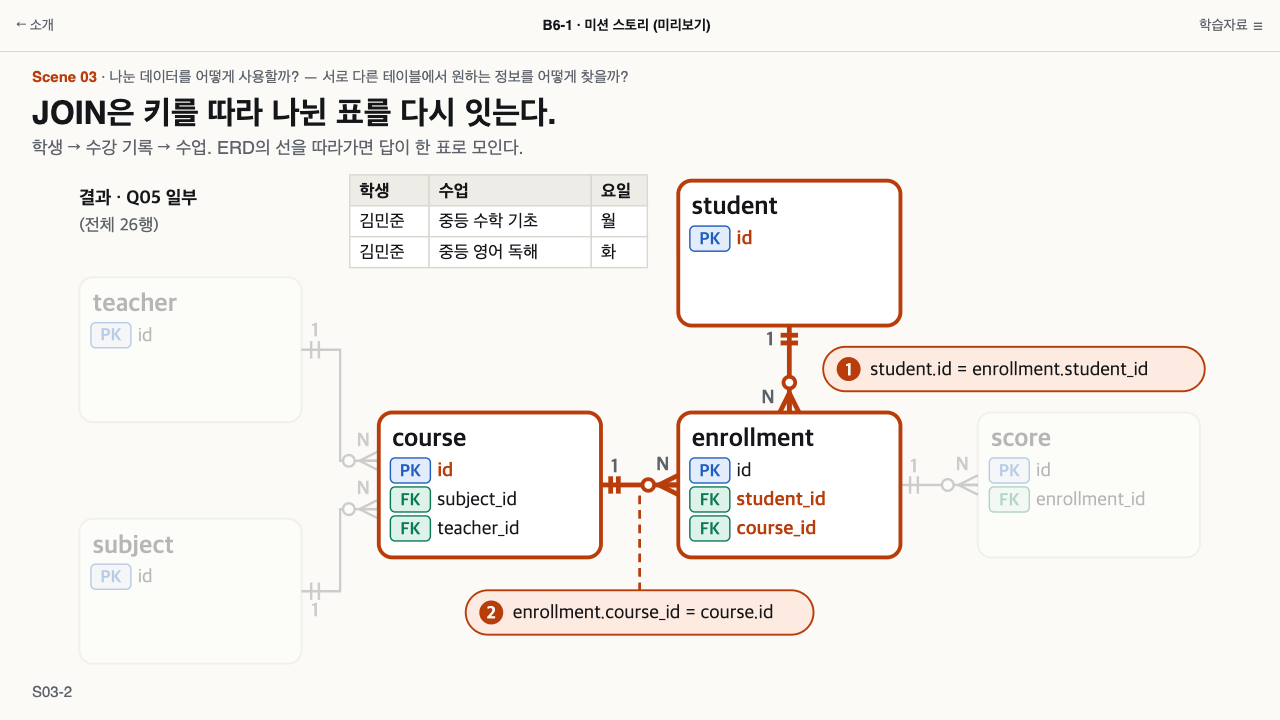
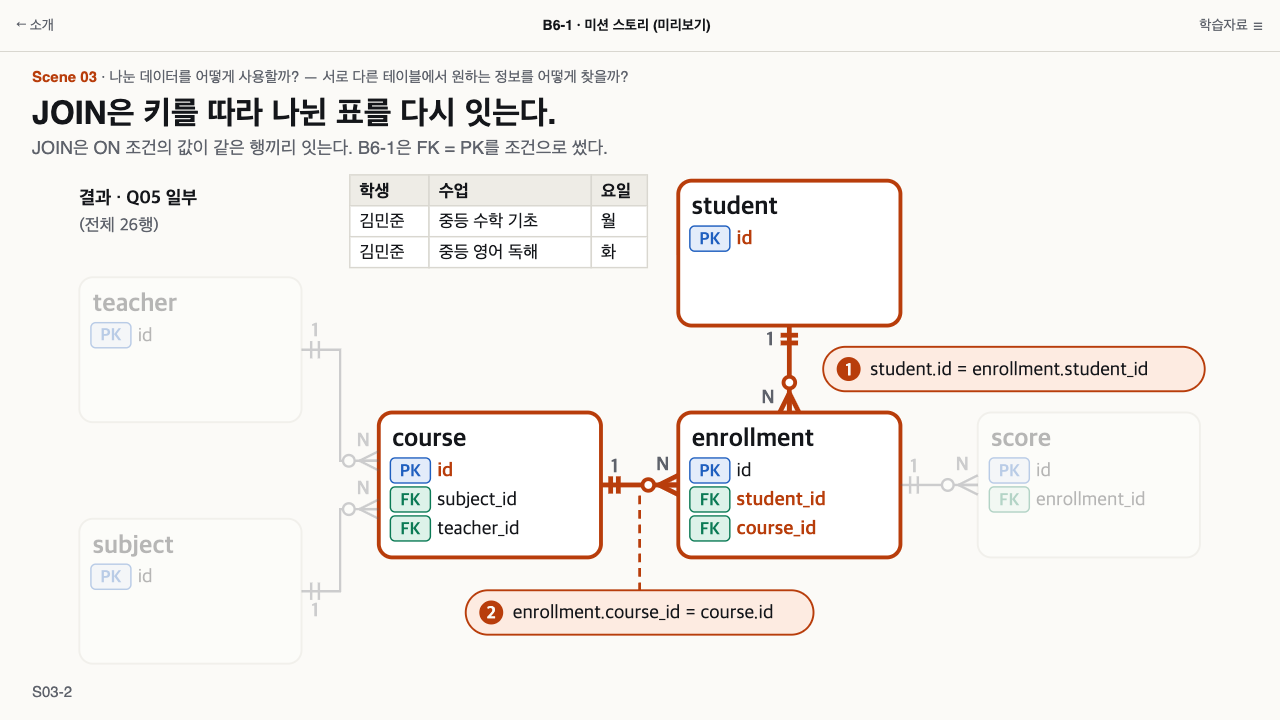
content(b6-1): refine story v0.2 visuals and wording
- Mobile S02-3/S03-3: dark token-based redraws of V03/V06 content
  (guide SVGs untouched, no color inversion)
- S01-3: B6-1 N:M junction vs one 1:N example; junction only for N:M
- S02-3/S03-2 captions separate B6-1's FK choice from general JOIN

Changed region(s): [[0.0312, 0.1833, 0.4688, 0.2139]]

diff --git a/content/mission-stories/main-m11/_tools/build.py b/content/mission-stories/main-m11/_tools/build.py
@@ -2,9 +2,9 @@
 
 그림 4종을 PC(desktop)·모바일(mobile)용으로 만든다. 결과는 ../assets/ 에 쓴다.
   erd-story        기준 ERD 하나. 상태 overview / read / join / return (Scene 01·03·04)
-  split-story      한 장의 표 → 나눈 표 → 키로 연결. 상태 one / split / keys (Scene 02)
-  join-compare     INNER JOIN 과 LEFT JOIN 결과 비교 (Scene 03, PC 전용. 모바일은 가이드 V06 재사용)
-  same-structure   주제가 달라도 같은 구조 (Scene 01)
+  split-story      한 장의 표 → 나눈 표 → 키로 연결. 상태 one / split / keys (Scene 02, 가이드 V03의 다크 재구성 포함)
+  join-compare     INNER JOIN 과 LEFT JOIN 결과 비교 (Scene 03, 가이드 V06의 다크 재구성)
+  same-structure   B6-1(N:M → 연결 표)과 1:N 예시 하나 (Scene 01)
 
 상태 전환: 루트 <svg data-state="..."> 값만 바꾼다. 파일 안 <style>이 상태별로 보이기·흐리기·강조를 정한다.
 <img>로 쓰면 기본 상태(첫 상태)만 보이므로, 렌더러는 SVG를 인라인으로 넣고 data-state를 바꾼다.
@@ -398,26 +398,47 @@ def split_desktop():
 
 
 def split_mobile():
-    states = ["one", "split"]  # 모바일의 keys 화면은 학습가이드 V03을 그대로 쓴다
-    f = Fig("split-story-mobile.svg", 360, 640, states, "한 장의 표를 나누기",
-            "학생·수업·강사를 한 장에 적으면 같은 값이 반복된다. 학생, 수업, 수강 기록 표로 나누면 정보는 한 번만 적는다.")
+    states = ["one", "split", "keys"]
+    f = Fig("split-story-mobile.svg", 360, 688, states, "한 장의 표를 나누고 키로 잇기",
+            "학생·수업·강사를 한 장에 적으면 같은 값이 반복된다. 학생, 수업, 수강 기록 표로 나누면 정보는 한 번만 적고(교육용 단순화), "
+            "수강 기록의 student_id와 course_id(FK)가 각 표의 id(PK)를 가리켜 연결한다.")
     sheet = [[r[0], r[2], r[3]] for r in SHEET]
     marks = {(0, 0), (1, 0), (0, 1), (2, 1), (0, 2), (2, 2)}
+    tabs = ["split", "keys"]
     f.text(20, 28, "한 장에 모두 적은 표", 18, cls="muted", bold=True, show=["one"])
     table(f, 20, 40, [("학생", 72), ("수업", 156), ("강사", 92)], sheet, 18, 46, show=["one"], marks=marks)
     chip(f, 20, 244, 320, 40, ["점선 칸 = 같은 값의 반복"], 18, show=["one"])
     chip(f, 20, 292, 320, 40, ["박서준이 바뀌면 → 2곳을 고쳐야"], 18, show=["one"])
-    f.text(20, 28, "학생 student", 18, cls="muted", bold=True, show=["split"])
+    f.text(20, 28, "학생 student", 18, cls="muted", bold=True, show=tabs)
     table(f, 20, 38, [("id", 78), ("이름", 96), ("학교", 96)], [["1", "김민준", "한빛중"], ["2", "이서연", "한빛중"]],
-          18, 44, show=["split"], pk=[0])
-    f.text(20, 206, "수업 course", 18, cls="muted", bold=True, show=["split"])
+          18, 44, show=tabs, pk=[0])
+    f.text(20, 206, "수업 course", 18, cls="muted", bold=True, show=tabs)
     table(f, 20, 216, [("id", 78), ("수업", 150), ("강사", 92)], [["1", "중등 수학 기초", "박서준"], ["2", "중등 영어 독해", "김하늘"]],
-          18, 44, show=["split"], pk=[0])
-    f.text(20, 384, "수강 기록", 18, cls="muted", bold=True, show=["split"])
+          18, 44, show=tabs, pk=[0])
+    f.text(20, 384, "수강 기록", 18, cls="muted", bold=True, show=tabs)
     table(f, 20, 394, [("student_id", 164), ("course_id", 156)],
-          [["1", "1"], ["1", "2"], ["2", "1"]], 18, 44, show=["split"], fk=[0, 1])
+          [["1", "1"], ["1", "2"], ["2", "1"]], 18, 44, show=tabs, fk=[0, 1])
     chip(f, 20, 584, 320, 46, ["단순화 · 점수·강사는 B6-1에서 별도 표"], 17, show=["split"])
+    # keys: FK 칸 → PK 행 (V03과 같은 내용을 슬라이드 색으로)
+    keys = ["keys"]
+    f.rect(23, 85, 72, 38, "mark", rx=6, show=keys)
+    f.rect(23, 263, 72, 38, "mark", rx=6, show=keys)
+    f.rect(23, 441, 158, 38, "mark", rx=6, show=keys)
+    f.rect(187, 441, 150, 38, "mark", rx=6, show=keys)
+    pointer(f, [(20, 460), (9, 460), (9, 104), (20, 104)], keys)
+    pointer(f, [(340, 460), (351, 460), (351, 282), (340, 282)], keys)
+    num_circle(f, 162, 460, "1", 18, show=keys)
+    num_circle(f, 318, 460, "2", 18, show=keys)
+    chip(f, 20, 584, 320, 40, ["PK = 행마다 다른 고유 번호 (id)"], 17, show=keys)
+    chip(f, 20, 632, 320, 40, ["FK = 다른 표의 PK를 가리키는 번호"], 17, show=keys)
     f.write()
+
+
+def icon(f, cx, cy, ok):
+    """✓ / ✕ 를 글꼴이 아닌 도형으로 그린다. 옆에 항상 글자 설명을 둔다."""
+    mark = (f'<path d="M{cx - 7:g} {cy:g} L{cx - 2:g} {cy + 6:g} L{cx + 7:g} {cy - 6:g}" fill="none"' if ok
+            else f'<path d="M{cx - 6:g} {cy - 6:g} L{cx + 6:g} {cy + 6:g} M{cx + 6:g} {cy - 6:g} L{cx - 6:g} {cy + 6:g}"')
+    f.add(f'<g><circle cx="{cx:g}" cy="{cy:g}" r="13" class="{P}-num"/>{mark} stroke="{TOKENS["bg"]}" stroke-width="3"/></g>')
 
 
 # ---------- 3. INNER JOIN vs LEFT JOIN ----------
@@ -438,62 +459,99 @@ def join_compare():
     table(f, 386, 128, [("이름", 104), ("수업", 264)], [["배현우", "파이썬 코딩 입문"], ["홍지민", "고등 수학 심화"]], 20, 52)
     f.text(396, 314, "문태양", 20, cls="muted")
     f.add(f'<path d="M392 307 L466 307" class="{P}-strike"/>')
-    f.add(f'<g><circle cx="404" cy="356" r="13" class="{P}-num"/><path d="M398 350 L410 362 M410 350 L398 362" '
-          f'stroke="{TOKENS["bg"]}" stroke-width="3"/></g>')
+    icon(f, 404, 356, False)
     f.text(426, 363, "짝이 없어 결과에서 사라짐", 20, bold=True)
     f.rect(800, 72, 380, 330, "box", rx=14)
     num_circle(f, 828, 101, "2", 20)
     f.text(850, 108, "LEFT JOIN → 3행", 21, bold=True)
     table(f, 816, 128, [("이름", 104), ("수업", 244)],
           [["배현우", "파이썬 코딩 입문"], ["홍지민", "고등 수학 심화"], ["문태양", "NULL"]], 20, 52, marks={(2, 1)})
-    f.add(f'<g><circle cx="830" cy="366" r="13" class="{P}-num"/><path d="M823 366 L828 372 L837 360" fill="none" '
-          f'stroke="{TOKENS["bg"]}" stroke-width="3"/></g>')
+    icon(f, 830, 366, True)
     f.text(852, 373, "왼쪽 표의 행은 모두 남는다", 20, bold=True)
     f.text(20, 446, "학생 15명 전체로 연결하면  INNER JOIN 26행 · LEFT JOIN 27행  (수강 0건인 문태양 1행 차이)", 20, cls="muted")
     f.write()
 
 
+def join_compare_mobile():
+    f = Fig("join-compare-mobile.svg", 360, 1034, ["compare"], "INNER JOIN 과 LEFT JOIN 의 차이", (
+        "student 13~15번을 enrollment와 연결하면, 수강 기록이 없는 15번 문태양은 INNER JOIN 결과에서 사라지고 "
+        "LEFT JOIN 결과에는 수업 칸이 NULL인 채로 남는다. 전체 학생으로는 INNER 26행, LEFT 27행이다."))
+    chip(f, 16, 8, 328, 64, ["연결 기준 ON", "student.id = enrollment.student_id"], 18)
+    chip(f, 16, 82, 180, 38, ["B6-1 실제 결과"], 17, cls="real")
+    f.text(16, 150, "왼쪽 표 student 13~15번", 18, bold=True)
+    table(f, 16, 162, [("id", 56), ("이름", 96), ("수강", 100)],
+          [["13", "배현우", "1건"], ["14", "홍지민", "1건"], ["15", "문태양", "0건"]], 18, 44, marks={(2, 2)})
+    for top, n, title, rows, ok, note in (
+            (354, "1", "INNER JOIN → 2행", [["배현우", "파이썬 코딩 입문"], ["홍지민", "고등 수학 심화"]], False, "짝이 없어 결과에서 사라짐"),
+            (662, "2", "LEFT JOIN → 3행", [["배현우", "파이썬 코딩 입문"], ["홍지민", "고등 수학 심화"], ["문태양", "NULL"]], True, "왼쪽 표의 행은 모두 남는다")):
+        h = 300 if ok else 292
+        f.rect(16, top, 328, h, "box", rx=14)
+        num_circle(f, 42, top + 28, n, 18)
+        f.text(62, top + 35, title, 19, bold=True)
+        table(f, 28, top + 52, [("이름", 90), ("수업", 214)], rows, 18, 44, marks={(2, 1)} if ok else ())
+        y = top + 52 + 44 * (len(rows) + 1)
+        if not ok:
+            f.text(36, y + 32, "문태양", 18, cls="muted")
+            f.add(f'<path d="M32 {y + 26:g} L98 {y + 26:g}" class="{P}-strike"/>')
+            y += 44
+        icon(f, 44, y + 28, ok)
+        f.text(66, y + 34, note, 18, bold=True)
+    f.text(16, 994, "학생 15명 전체로 연결하면", 18, cls="muted")
+    f.text(16, 1020, "INNER 26행 · LEFT 27행 (문태양 1행 차이)", 18, cls="muted")
+    f.write()
+
+
 # ---------- 4. 주제가 달라도 같은 구조 ----------
 
-EXAMPLES = [  # (제목 1줄, 제목 2줄, 부모 A, 부모 B, 연결 표, 실제 사례 여부)
-    ("실제 사례", "B6-1 공부방", "학생", "수업", "수강", True),
-    ("예시", "도서관", "회원", "도서", "대출", False),
-    ("예시", "쇼핑몰", "고객", "상품", "주문", False),
-    ("예시", "숙소 예약", "고객", "객실", "예약", False),
+EXAMPLES = [  # (제목 1줄, 제목 2줄, 부모 표들, 자식 표, 실제 사례 여부, 아래 설명)
+    ("실제 사례", "B6-1 공부방", ["학생", "수업"], "수강", True, ("다대다(N:M) → 연결 표", "N:M → 연결 표")),
+    ("예시", "블로그", ["회원"], "게시글", False, ("일대다(1:N) → 바로 연결", "1:N → 바로 연결")),
 ]
 
 
 def mini_erd(f, x, y, w, ex, desktop):
-    t1, t2, a, b, c, real = ex
+    t1, t2, parents, child, real, caption = ex
     if desktop:
-        f.rect(x, y, w, 270, "box", rx=14)
+        h, pw, ph, py, cy, size = 280, 110, 52, y + 76, y + 190, 21
+        f.rect(x, y, w, h, "box", rx=14)
         chip(f, x + 14, y + 14, w - 28, 40, [f"{t1} · {t2}"], 19, cls="real" if real else "tag")
-        pw, ph, py, cy, size = 104, 52, y + 70, y + 206, 21
-        ax, bx, cx, cw = x + 20, x + w - 124, x + 40, w - 80
+        f.text(x + w / 2, y + 268, caption[0], 19, cls="muted", anchor="middle", bold=True)
+        pad = 40
     else:
-        f.rect(x, y, w, 232, "box", rx=12)
+        h, pw, ph, py, cy, size = 262, 64, 44, y + 76, y + 184, 18
+        f.rect(x, y, w, h, "box", rx=12)
         chip(f, x + 8, y + 8, w - 16, 54, [t1, t2], 16, cls="real" if real else "tag")
-        pw, ph, py, cy, size = 64, 44, y + 70, y + 180, 18
-        ax, bx, cx, cw = x + 12, x + w - 76, x + 20, w - 40
-    for bx_, name in ((ax, a), (bx, b)):
-        f.rect(bx_, py, pw, ph, "box", rx=10)
-        f.text(bx_ + pw / 2, py + ph / 2 + size * 0.36, name, size, anchor="middle", bold=True)
-        mid = bx_ + pw / 2
-        relation(f, [(mid, py + ph), (mid, cy)], size - 1, (-1, -1) if bx_ == bx else (1, 1))  # 1·N 글자는 바깥쪽
-    f.rect(cx, cy, cw, ph, "box", rx=10)
-    f.text(cx + cw / 2, cy + ph / 2 + size * 0.36, c, size, anchor="middle", bold=True)
+        f.text(x + w / 2, y + 250, caption[1], 16, cls="muted", anchor="middle", bold=True)
+        pad = 12
+    xs = [x + pad, x + w - pad - pw] if len(parents) == 2 else [x + (w - pw) / 2]
+    cw = (w - 2 * pad - 20) if len(parents) == 2 else pw
+    for i, (px, name) in enumerate(zip(xs, parents)):
+        f.rect(px, py, pw, ph, "box", rx=10)
+        f.text(px + pw / 2, py + ph / 2 + size * 0.36, name, size, anchor="middle", bold=True)
+        mid = px + pw / 2
+        relation(f, [(mid, py + ph), (mid, cy)], size - 1, (1, 1) if i == 0 and len(parents) == 2 else (-1, -1))  # 1·N 글자는 바깥쪽
+    f.rect(x + (w - cw) / 2, cy, cw, ph, "box", rx=10)
+    f.text(x + w / 2, cy + ph / 2 + size * 0.36, child, size, anchor="middle", bold=True)
 
 
 def same_structure():
-    f = Fig("same-structure-desktop.svg", 1200, 290, ["all"], "주제가 달라도 같은 구조",
-            "B6-1 공부방의 학생·수업·수강처럼, 도서관의 회원·도서·대출, 쇼핑몰의 고객·상품·주문, 숙소의 고객·객실·예약도 "
-            "두 표를 가운데 연결 표가 1대 N 관계로 잇는 같은 구조를 가진다. B6-1 외의 세 가지는 교육용 예시다.")
-    for i, ex in enumerate(EXAMPLES):
-        mini_erd(f, 10 + i * 297, 10, 287, ex, True)
+    f = Fig("same-structure-desktop.svg", 1200, 300, ["all"], "주제가 달라도 같은 구조",
+            "B6-1 공부방은 학생과 수업의 다대다 관계를 연결 표 수강으로 풀었다. 블로그 예시처럼 일대다 관계는 연결 표 없이 "
+            "회원과 게시글을 바로 잇는다. 공통점은 표로 나누고 선으로 잇는 것이며, 연결 표는 다대다일 때만 쓴다.")
+    mini_erd(f, 10, 10, 380, EXAMPLES[0], True)
+    mini_erd(f, 410, 10, 380, EXAMPLES[1], True)
+    f.rect(810, 10, 380, 280, "box", rx=14)
+    f.text(836, 62, "공통점", 21, cls="acc", bold=True)
+    f.text(836, 100, "표로 나누고", 25, bold=True)
+    f.text(836, 136, "선으로 잇는다", 25, bold=True)
+    f.add(f'<path d="M836 172 L1164 172" class="{P}-rel"/>')
+    f.text(836, 214, "연결 표는", 22)
+    f.text(836, 250, "다대다(N:M)일 때만 쓴다", 22, bold=True)
     f.write()
-    m = Fig("same-structure-mobile.svg", 360, 488, ["all"], "주제가 달라도 같은 구조", f.label)
-    for i, ex in enumerate(EXAMPLES):
-        mini_erd(m, 10 + (i % 2) * 174, 8 + (i // 2) * 242, 166, ex, False)
+    m = Fig("same-structure-mobile.svg", 360, 392, ["all"], "주제가 달라도 같은 구조", f.label)
+    mini_erd(m, 10, 8, 166, EXAMPLES[0], False)
+    mini_erd(m, 184, 8, 166, EXAMPLES[1], False)
+    chip(m, 10, 282, 340, 100, ["공통점: 표로 나누고 선으로 잇는다", "연결 표는 N:M일 때만 쓴다"], 17)
     m.write()
 
 
@@ -504,5 +562,6 @@ if __name__ == "__main__":
     split_desktop()
     split_mobile()
     join_compare()
+    join_compare_mobile()
     same_structure()
     print("wrote", sorted(n for n in os.listdir(OUT) if n.endswith(".svg")))

diff --git a/content/mission-stories/main-m11/review.md b/content/mission-stories/main-m11/review.md
@@ -12,10 +12,10 @@
 | S01-3 | 주제는 달라도, 나누고 잇는 설계는 같다. | 같은 구조 |
 | S02-1 | 한 표에 모두 넣으면 같은 정보가 반복된다. | 나누고 잇기 `one` |
 | S02-2 | 정보는 주제별 표에 한 번만 적는다. | 나누고 잇기 `split` |
-| S02-3 | PK로 행을 구분하고, FK로 다른 표를 가리킨다. | 나누고 잇기 `keys` / V03 |
+| S02-3 | PK로 행을 구분하고, FK로 다른 표를 가리킨다. | 나누고 잇기 `keys` |
 | S03-1 | SQL로 원하는 결과를 요청하면, DBMS가 찾아서 표로 돌려준다. | HTML 카드 |
 | S03-2 | JOIN은 키를 따라 나뉜 표를 다시 잇는다. | 기준 ERD `join` + 결과표 |
-| S03-3 | INNER는 짝이 있는 행만, LEFT는 왼쪽 표를 모두 남긴다. | JOIN 비교 / V06 |
+| S03-3 | INNER는 짝이 있는 행만, LEFT는 왼쪽 표를 모두 남긴다. | JOIN 비교 |
 | S04-1 | SQL은 요청하는 언어, DBMS는 실행하고 지키는 프로그램이다. | HTML 카드 |
 | S04-2 | AI가 SQL을 써 줘도, 맞는 답인지는 구조로 판단한다. | HTML 카드 |
 | S04-3 | 데이터베이스는 정보를 나누어 정리하고, 관계로 연결해, 필요한 답을 찾아내는 구조다. | 기준 ERD `return` |
@@ -26,13 +26,12 @@
 
 | 구분 | 파일 | 수 |
 | --- | --- | --- |
-| **새로 만든 그림** | 기준 ERD · 나누고 잇기 · 같은 구조 (각 PC·모바일) + JOIN 비교 (PC) | 디자인 4종 · SVG 파일 7개 |
-| **그대로 재사용** | 학습가이드 V03(S02-3 모바일), V06(S03-3 모바일) | 2개 |
-| **참고로 재구성** | V02 → 기준 ERD(가로형·상태 전환), V03·V03 보조 → 나누고 잇기 `keys`, V06 → JOIN 비교 PC, V01 → 한 장의 표 | 원본 파일은 바꾸지 않음 |
+| **새로 만든 그림** | 기준 ERD · 나누고 잇기 · 같은 구조 · JOIN 비교 (각 PC·모바일) | 디자인 4종 · SVG 파일 8개 |
+| **참고로 재구성** | V02 → 기준 ERD(가로형·상태 전환), V03·V03 보조 → 나누고 잇기 `keys`(PC·모바일), V06 → JOIN 비교(PC·모바일), V01 → 한 장의 표 | 원본 파일은 바꾸지 않음 |
 | **링크만** | V05(S03-1), V10·V10 PC용(S04) | 학습가이드 장 링크 |
 
-- 기존 V 시리즈는 폭 360의 세로형 모바일 그림이라 16:9 PC 슬라이드에서는 글자가 약 10px로 작아진다. 그래서 PC용은 가로형으로 다시 그리고, 같은 내용이 이미 있는 모바일 화면에서는 원본을 그대로 쓴다.
-- 새 그림은 `--presentation-*` 토큰을 쓴다. 인라인으로 넣으면 Light도 자동으로 맞는다([`preview/pc-S03-2-light.png`](preview/pc-S03-2-light.png)). 재사용한 V03·V06은 원본의 밝은 자체 배경을 유지한다(UI 기준: SVG invert 금지).
+- 기존 V 시리즈는 폭 360의 세로형·밝은 배경 그림이다. PC는 글자가 작아지고, 모바일은 다크 슬라이드에서 밝은 판이 튄다. 그래서 같은 내용을 슬라이드 색으로 다시 그렸다(원본 SVG 수정·색 반전 없음).
+- 새 그림은 `--presentation-*` 토큰을 쓴다. 인라인으로 넣으면 Light도 자동으로 맞는다([`preview/pc-S03-2-light.png`](preview/pc-S03-2-light.png)).
 - 3개 화면(S03-1 · S04-1 · S04-2)은 글과 카드로 충분해 새 SVG를 만들지 않았다.
 
 ## 3. 실제 미션과의 정확성
@@ -57,10 +56,10 @@ B6-1 커밋 `8b99440`의 `01_schema.sql` + `02_sample_data.sql`을 SQLite 3.43.2
 
 ## 4. 모바일·PC 가독성
 
-자동 검사 [`_tools/preview.cjs`](_tools/preview.cjs): 새 SVG 7개의 모든 상태(총 16개 상태)에서 **PASS**
+자동 검사 [`_tools/preview.cjs`](_tools/preview.cjs): 새 SVG 8개의 모든 상태(총 18개 상태)에서 **PASS**
 - 글자가 그림 밖이나 자기 상자·표 칸·이름표 밖으로 나가지 않음 (6px 여유)
 - 보이는 글자끼리 겹치지 않음
-- 실제 표시 크기 14px 이상: PC는 그림 폭 936px(1000px 화면), 모바일은 328px(360px 화면) 기준. 예외는 S02-2·03의 흐리게 표시한 "원래의 한 장" 축소판 하나(장식용, `aria-hidden`)
+- 실제 표시 크기 14px 이상: PC는 그림 폭 936px(1000px 화면), 모바일은 328px(360px 화면) 기준. 예외는 PC S02-2·03의 흐리게 표시한 "원래의 한 장" 축소판 하나(장식용, `aria-hidden`)
 - 스토리보드와 미리보기 문구 일치
 
 미리보기 [`preview/`](preview/): PC 1280×720, 모바일 390×844에서 Pretendard로 그린 정적 화면. 대표 화면 S01-1 · S03-2 · S04-3과 전체 모음 `pc-all.png` · `mobile-all.png`.
@@ -104,3 +103,15 @@ B6-1 커밋 `8b99440`의 `01_schema.sql` + `02_sample_data.sql`을 SQLite 3.43.2
 - **확인 필요:** 학습가이드 V02(부모 → 자식 화살표)와 이 스토리의 ERD 기호(까마귀발)가 다르다. 두 자료를 오가는 학습자를 위해 독립 검토에서 표기 통일 여부를 판단해 달라.
 - **미구현:** B6-1 개념지도가 없어 스토리 → 지도 연결은 없다.
 - 이번 작업은 콘텐츠와 그림만 만들었다. 웹 코드·라우트·기존 B6-1 가이드·용어 데이터·B2-1/B3-1은 바꾸지 않았다.
+
+## 8. v0.2 최종 보완 (구조·분량 유지)
+
+4 Scene · 12개 화면 · 화면별 핵심 메시지는 그대로다. 바꾼 것은 아래 세 가지뿐이다.
+
+| 항목 | 변경 | 판정 |
+| --- | --- | --- |
+| 모바일 S02-3 · S03-3의 밝은 V03·V06 | `split-story-mobile` `keys` 상태와 `join-compare-mobile.svg`를 슬라이드 토큰 색으로 새로 그림. 내용·데이터는 V03·V06과 같고, 원본 SVG는 수정하지 않았으며 색 반전을 쓰지 않음 | PASS |
+| S01-3 "모든 DB에 연결 표" 오해 | 예시를 4장 → 2장(B6-1 실제 N:M → 연결 표 / 블로그 1:N → 바로 연결)으로 줄이고 "연결 표는 다대다(N:M)일 때만 쓴다"를 표시. 설명 문장도 "연결 표가 있다면 왜 있는지 말해 보자"로 수정 | PASS |
+| PK/FK·JOIN의 미션 방식과 일반 원리 구분 | S02-3 설명 → "B6-1에서는 ERD의 선 5개가 FOREIGN KEY 선언 5개와 같다." S03-2 설명 → "JOIN은 ON 조건의 값이 같은 행끼리 잇는다. B6-1은 FK = PK를 조건으로 썼다." (메시지는 유지) | PASS |
+
+재검증 (바뀐 화면만): 새 SVG 8개 자동 검사 PASS(글자 범위·상자 넘침·겹침·14px 이상·스토리보드 문구 일치). 정적 미리보기 PC 1280×720 · 모바일 390×844에서 S01-3 · S02-3 · S03-2 · S03-3을 눈으로 확인 → [`preview/`](preview/)의 `pc-`/`mobile-` 해당 파일. 첫 검증 때 모바일 S03-3의 ✕·✓ 줄이 패널 경계에 닿아 높이를 늘렸다. 다른 화면과 기존 학습가이드는 다시 검사하지 않았다(변경 없음).

diff --git a/content/mission-stories/main-m11/storyboard-v0.2.md b/content/mission-stories/main-m11/storyboard-v0.2.md
@@ -55,11 +55,11 @@
 
 ### S01-3 · 주제는 달라도
 - **메시지:** 주제는 달라도, 나누고 잇는 설계는 같다.
-- **설명:** 내 데이터베이스의 ERD에서도 두 표를 잇는 연결 표를 찾아보자.
-- **그림:** `same-structure` — B6-1(학생·수업 → 수강) 실제 사례 1장 + 도서관·쇼핑몰·숙소 예약 예시 3장. 같은 모양(두 표 + 가운데 연결 표). 예시 3장은 `[보충]` 단순화다(쇼핑몰은 실제로 주문·주문 상품으로 더 나뉠 수 있다).
+- **설명:** 내 ERD에서도 표와 선을 찾고, 연결 표가 있다면 왜 있는지 말해 보자.
+- **그림:** `same-structure` — B6-1 실제 사례(학생·수업은 다대다 → 연결 표 수강) + `[보충]` 예시 하나(블로그: 회원 1 : N 게시글, 연결 표 없이 바로 연결) + 이름표 "공통점: 표로 나누고 선으로 잇는다 · 연결 표는 다대다(N:M)일 때만 쓴다".
 - **동작:** 없음(정지 화면).
 
-> 강사 포인트: 학생 관리 DB는 **하나의 사례**다. 표 이름이 아니라 "표 + 선"을 읽는 법을 가져간다.
+> 강사 포인트: 학생 관리 DB는 **하나의 사례**다. 모든 DB에 연결 표가 있는 것은 아니다. 표 이름이 아니라 "표 + 선"을 읽는 법을 가져간다.
 
 ---
 
@@ -81,8 +81,8 @@
 
 ### S02-3 · 키로 잇기
 - **메시지:** PK로 행을 구분하고, FK로 다른 표를 가리킨다.
-- **설명:** ERD의 선 하나는 FK 하나가 다른 표의 PK를 가리키는 연결이다.
-- **그림:** PC `split-story` `keys` — 수강 기록 첫 행의 student_id 1 → 학생 id 1(김민준), course_id 1 → 수업 id 1(중등 수학 기초)을 점선 화살표 ①②로 표시. 모바일은 학습가이드 **V03**(같은 내용의 세로 그림)을 그대로 쓴다. `[B6-1 사례]` `[개념]`
+- **설명:** B6-1에서는 ERD의 선 5개가 FOREIGN KEY 선언 5개와 같다.
+- **그림:** `split-story` `keys` — 수강 기록 첫 행의 student_id 1 → 학생 id 1(김민준), course_id 1 → 수업 id 1(중등 수학 기초)을 점선 화살표 ①②로 표시. 모바일도 같은 그림의 세로판(학습가이드 V03 내용을 슬라이드 색으로 재구성, V03 원본은 그대로). `[B6-1 사례]` `[개념]`
 - **동작:** ① → ② 순서로 점선이 그려진다.
 
 > 강사 포인트: B6-1의 관계선 5개는 `01_schema.sql`의 FOREIGN KEY 선언 5개와 1:1이다. 무결성·제약조건(150점 거절 등)은 학습가이드 4장으로 넘긴다.
@@ -101,14 +101,14 @@
 
 ### S03-2 · JOIN = 키를 따라가기
 - **메시지:** JOIN은 키를 따라 나뉜 표를 다시 잇는다.
-- **설명:** 학생 → 수강 기록 → 수업. ERD의 선을 따라가면 답이 한 표로 모인다.
+- **설명:** JOIN은 ON 조건의 값이 같은 행끼리 잇는다. B6-1은 FK = PK를 조건으로 썼다.
 - **그림:** `erd-story` `join` — student·enrollment·course 강조, 이 세 표만 PK/FK 열 공개, 연결 조건 ① `student.id = enrollment.student_id` ② `enrollment.course_id = course.id`. 결과표(Q05 첫 두 행: 김민준 · 중등 수학 기초 · 월 / 김민준 · 중등 영어 독해 · 화, 전체 26행)가 나타난다. PC는 그림 안 왼쪽 위, 모바일은 그림 아래 HTML 표. `[B6-1 사례]`
 - **동작:** ① 선 → ② 선 순서로 강조가 옮겨 간 뒤 결과표가 뜬다.
 
 ### S03-3 · INNER와 LEFT
 - **메시지:** INNER는 짝이 있는 행만, LEFT는 왼쪽 표를 모두 남긴다.
 - **설명:** 짝이 없는 행이 사라지는지 남는지에 따라 답이 달라진다.
-- **그림:** PC `join-compare` — student 13~15번(문태양 수강 0건) → INNER 2행(문태양 ✕ 사라짐) / LEFT 3행(문태양 · NULL ✓). 전체 학생 기준 INNER 26행 · LEFT 27행. 모바일은 학습가이드 **V06**을 그대로 쓴다. `[B6-1 사례]`
+- **그림:** PC `join-compare` — student 13~15번(문태양 수강 0건) → INNER 2행(문태양 ✕ 사라짐) / LEFT 3행(문태양 · NULL ✓). 전체 학생 기준 INNER 26행 · LEFT 27행. 모바일은 같은 내용의 세로판(학습가이드 V06 내용을 슬라이드 색으로 재구성, V06 원본은 그대로). `[B6-1 사례]`
 - **동작:** INNER 결과 → LEFT 결과 순서로 켠다.
 
 > 강사 포인트: S01-2의 **동그라미(0개 가능)** 가 바로 문태양이다. ERD 기호와 JOIN 결과를 한 번 이어 준다.
@@ -148,10 +148,9 @@
 | 그림 | PC | 모바일 | 상태 | 화면 |
 | --- | --- | --- | --- | --- |
 | 기준 ERD | `erd-story-desktop.svg` | `erd-story-mobile.svg` | `overview` · `read` · `join` · `return` | S01-1 · S01-2 · S03-2 · S04-3 |
-| 나누고 잇기 | `split-story-desktop.svg` | `split-story-mobile.svg` | `one` · `split` · `keys`(PC만) | S02-1 · S02-2 · S02-3 |
+| 나누고 잇기 | `split-story-desktop.svg` | `split-story-mobile.svg` | `one` · `split` · `keys` | S02-1 · S02-2 · S02-3 |
 | 같은 구조 | `same-structure-desktop.svg` | `same-structure-mobile.svg` | `all` | S01-3 |
-| JOIN 비교 | `join-compare-desktop.svg` | 학습가이드 V06 | `compare` | S03-3 |
-| PK·FK 가리키기 | (split-story `keys`) | 학습가이드 V03 | — | S02-3 |
+| JOIN 비교 | `join-compare-desktop.svg` | `join-compare-mobile.svg` | `compare` | S03-3 |
 | HTML 카드 | — | — | — | S03-1 · S04-1 · S04-2 |
 
 ## 더 알아보기 연결
